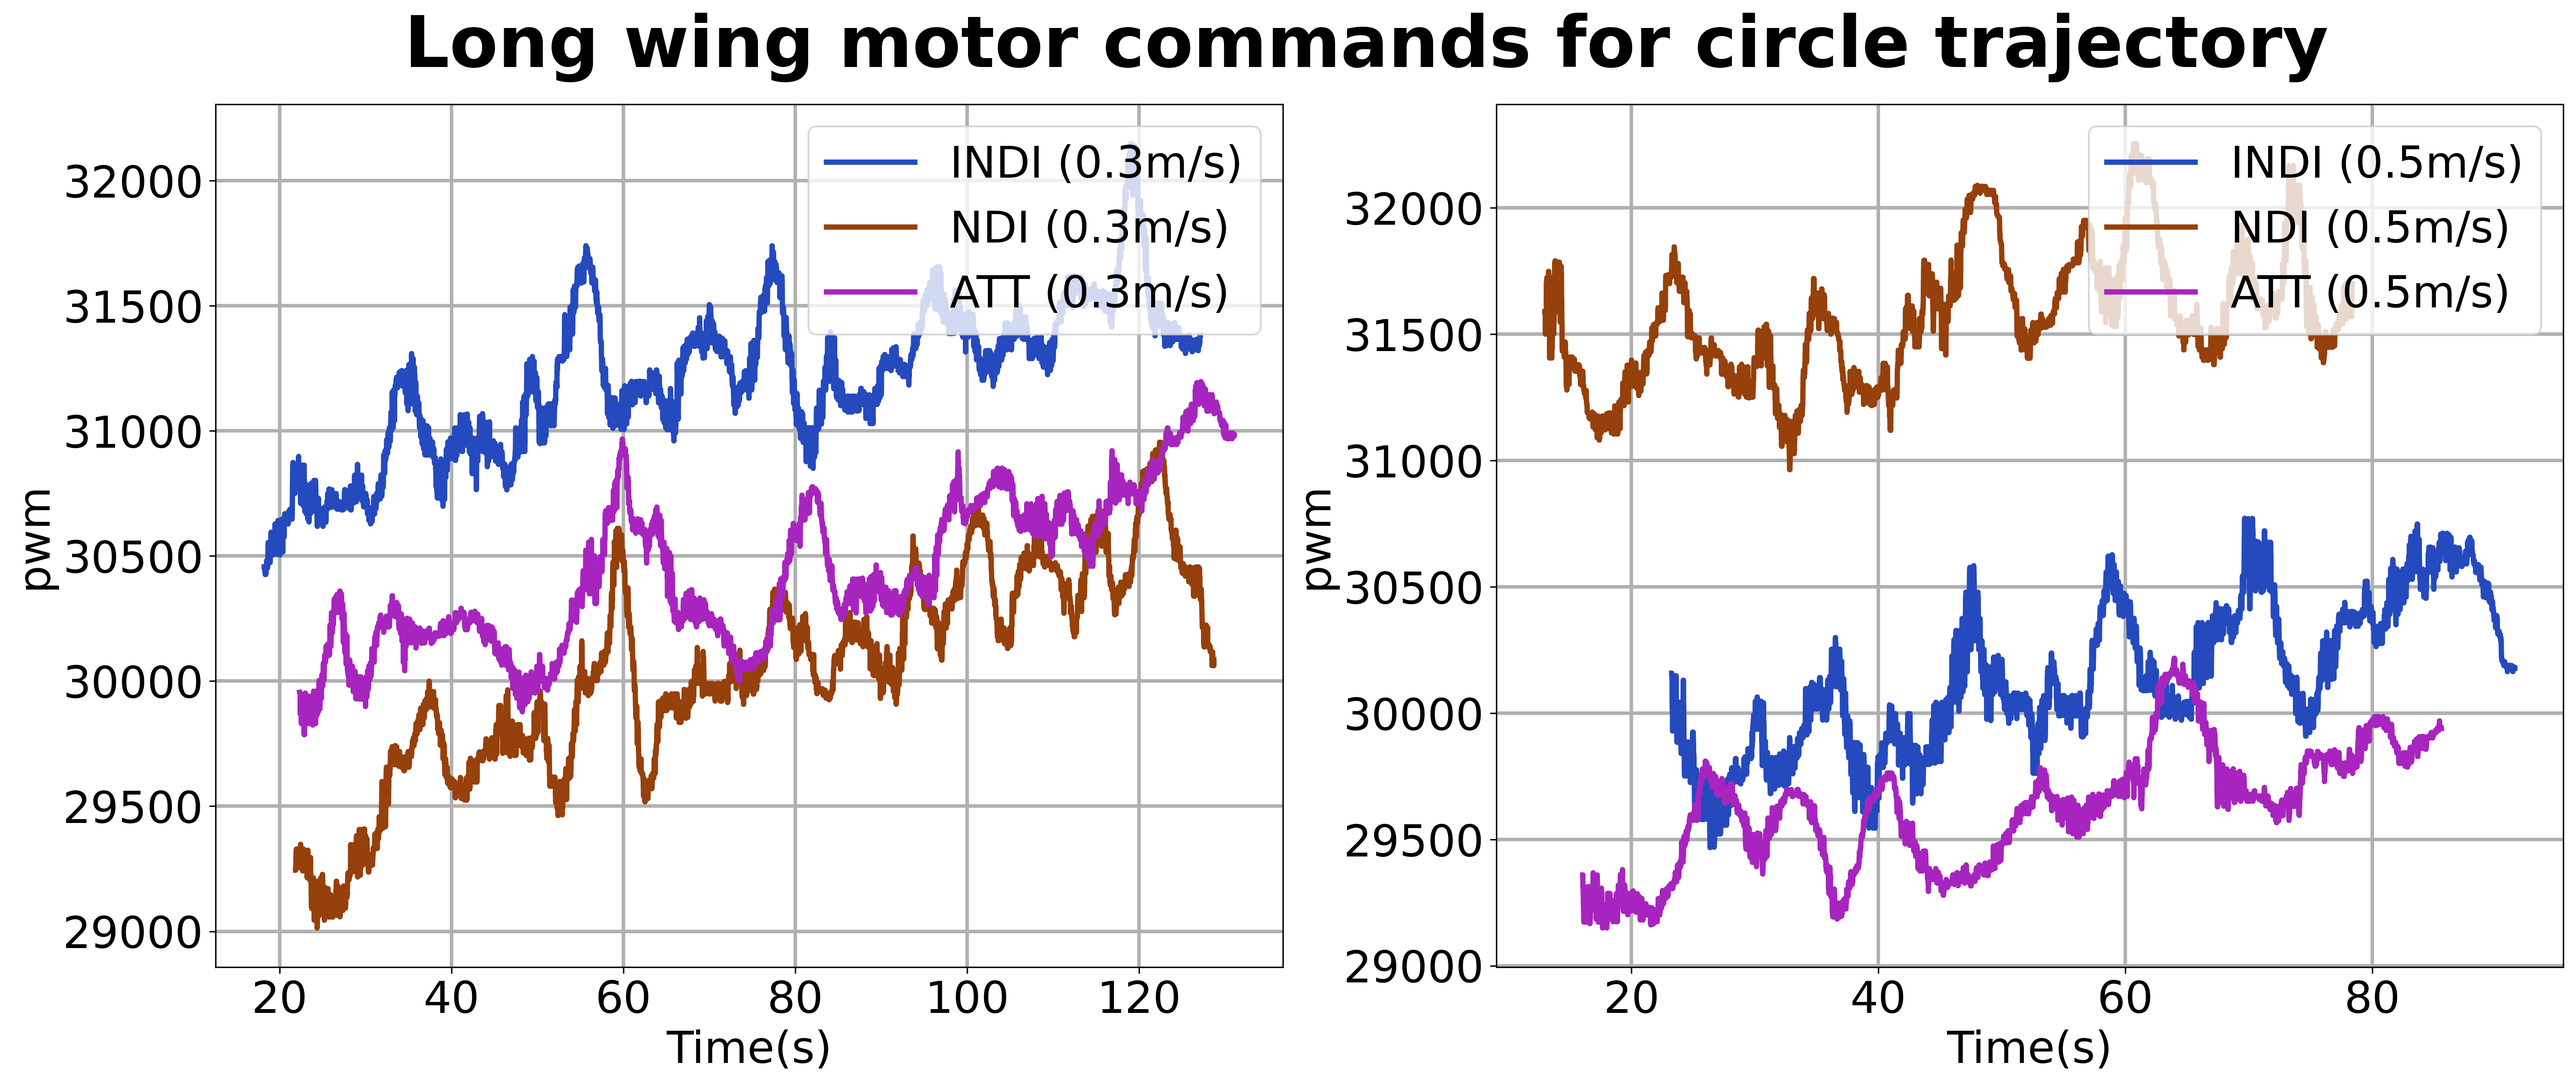
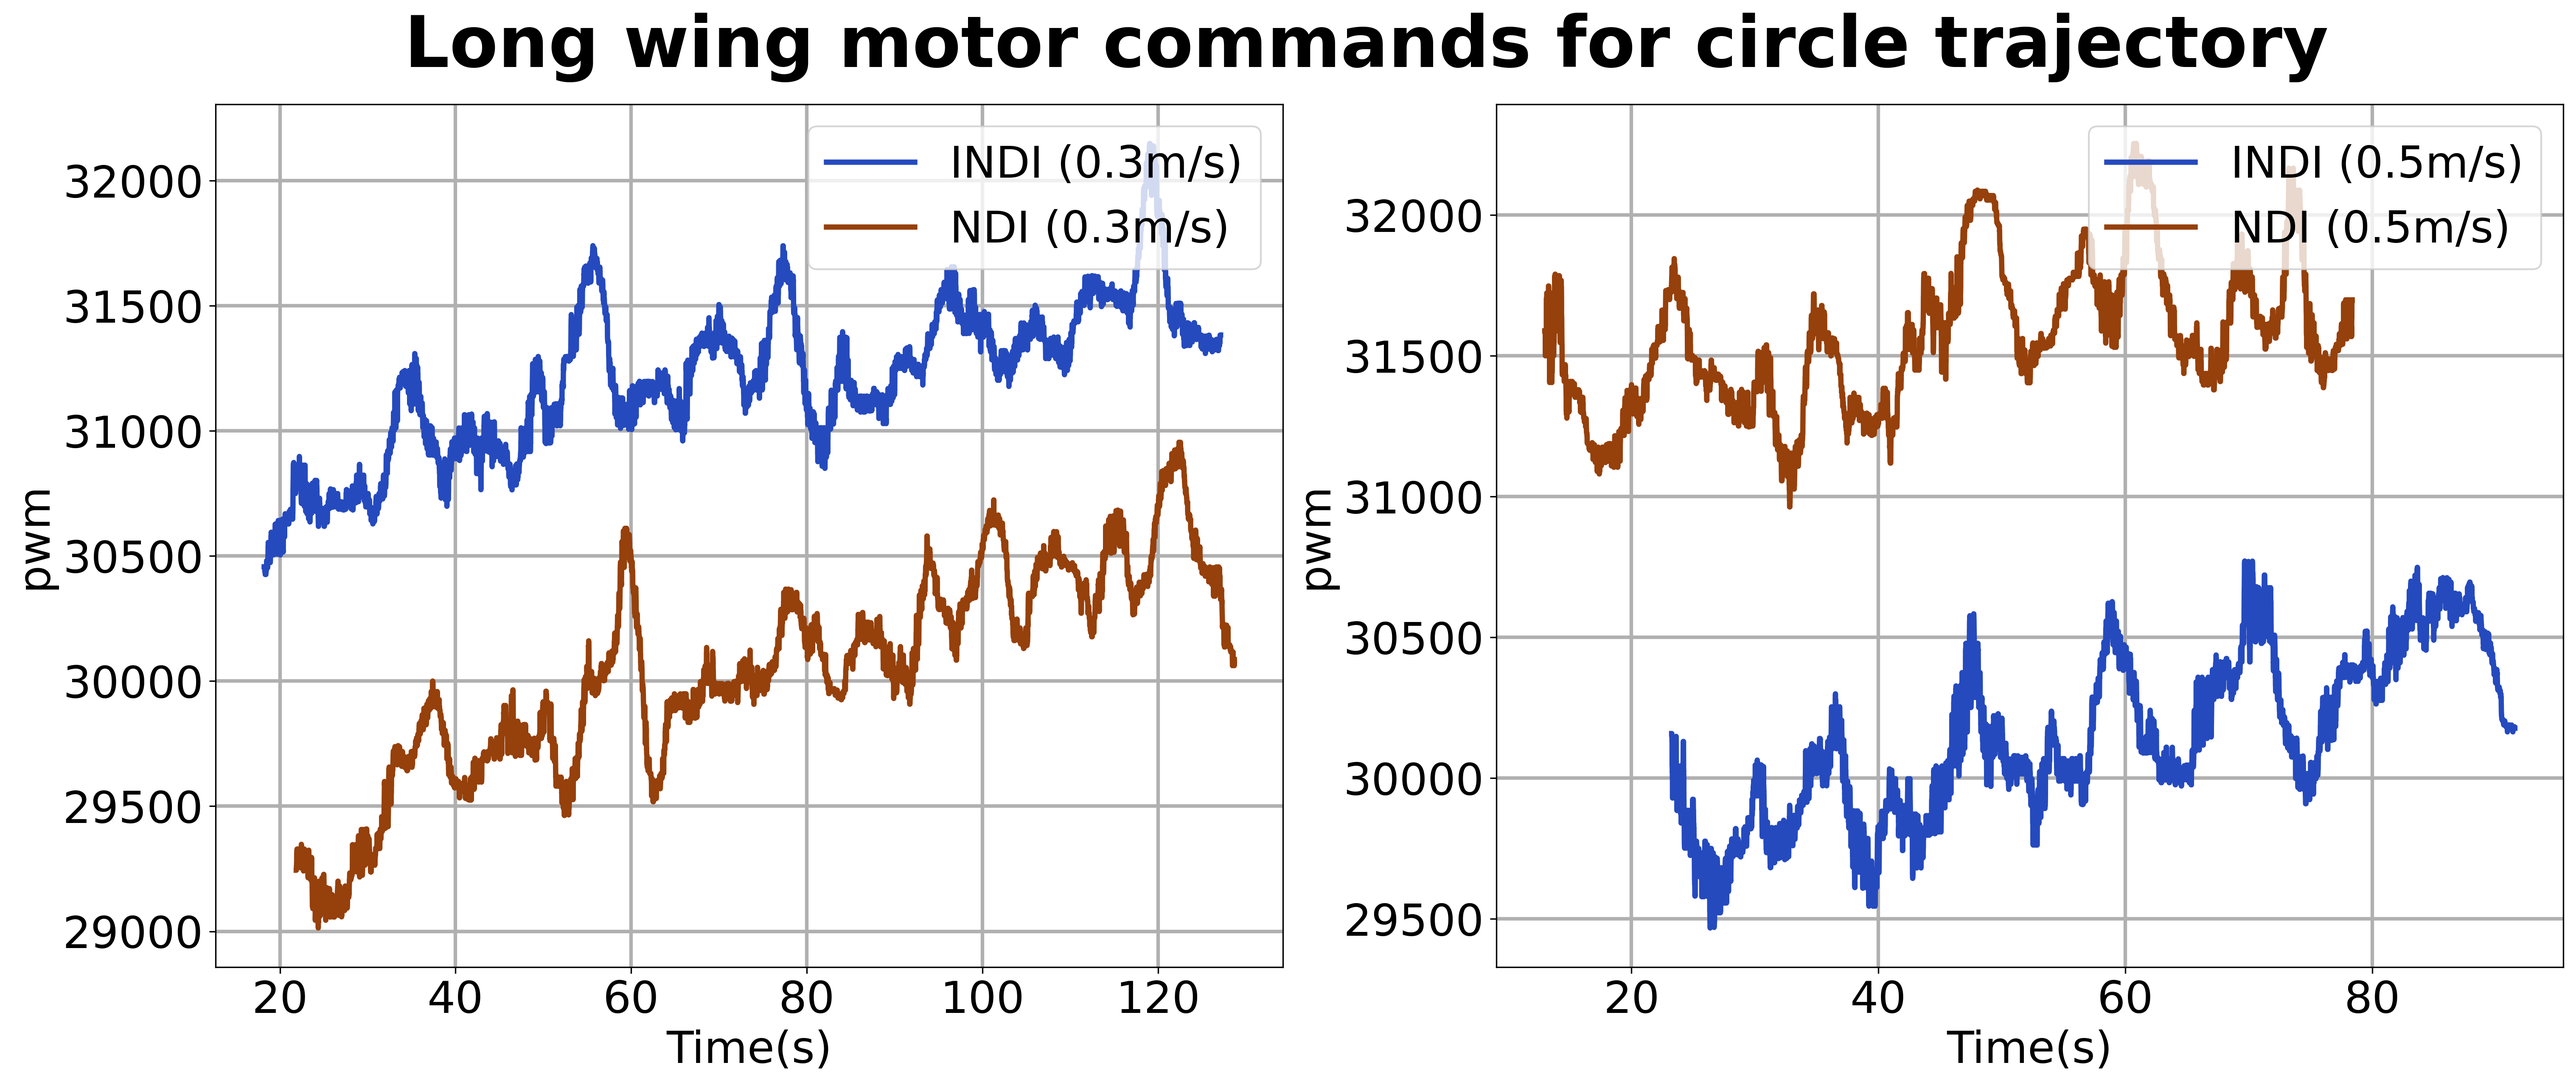
minor update

diff --git a/paper_plots/motor_cmd_plotter.py b/paper_plots/motor_cmd_plotter.py
@@ -19,7 +19,7 @@ wing_circle_long = data_sorter.whisker_circle(long_wing)
 wing_circle_short = data_sorter.whisker_circle(short_wing)
 wing_circle_foam = data_sorter.foam_whisker_circle(foam_wing)
 
-wing = [wing_circle_long,wing_circle_short,wing_circle_foam]
+wing = [wing_circle_long,wing_circle_short] # if wan att, need to turn list into len 3
 
 ## generate the plot
 fig, ((ax2,ax3)) = plt.subplots(1, 2, figsize=(20, 8))
